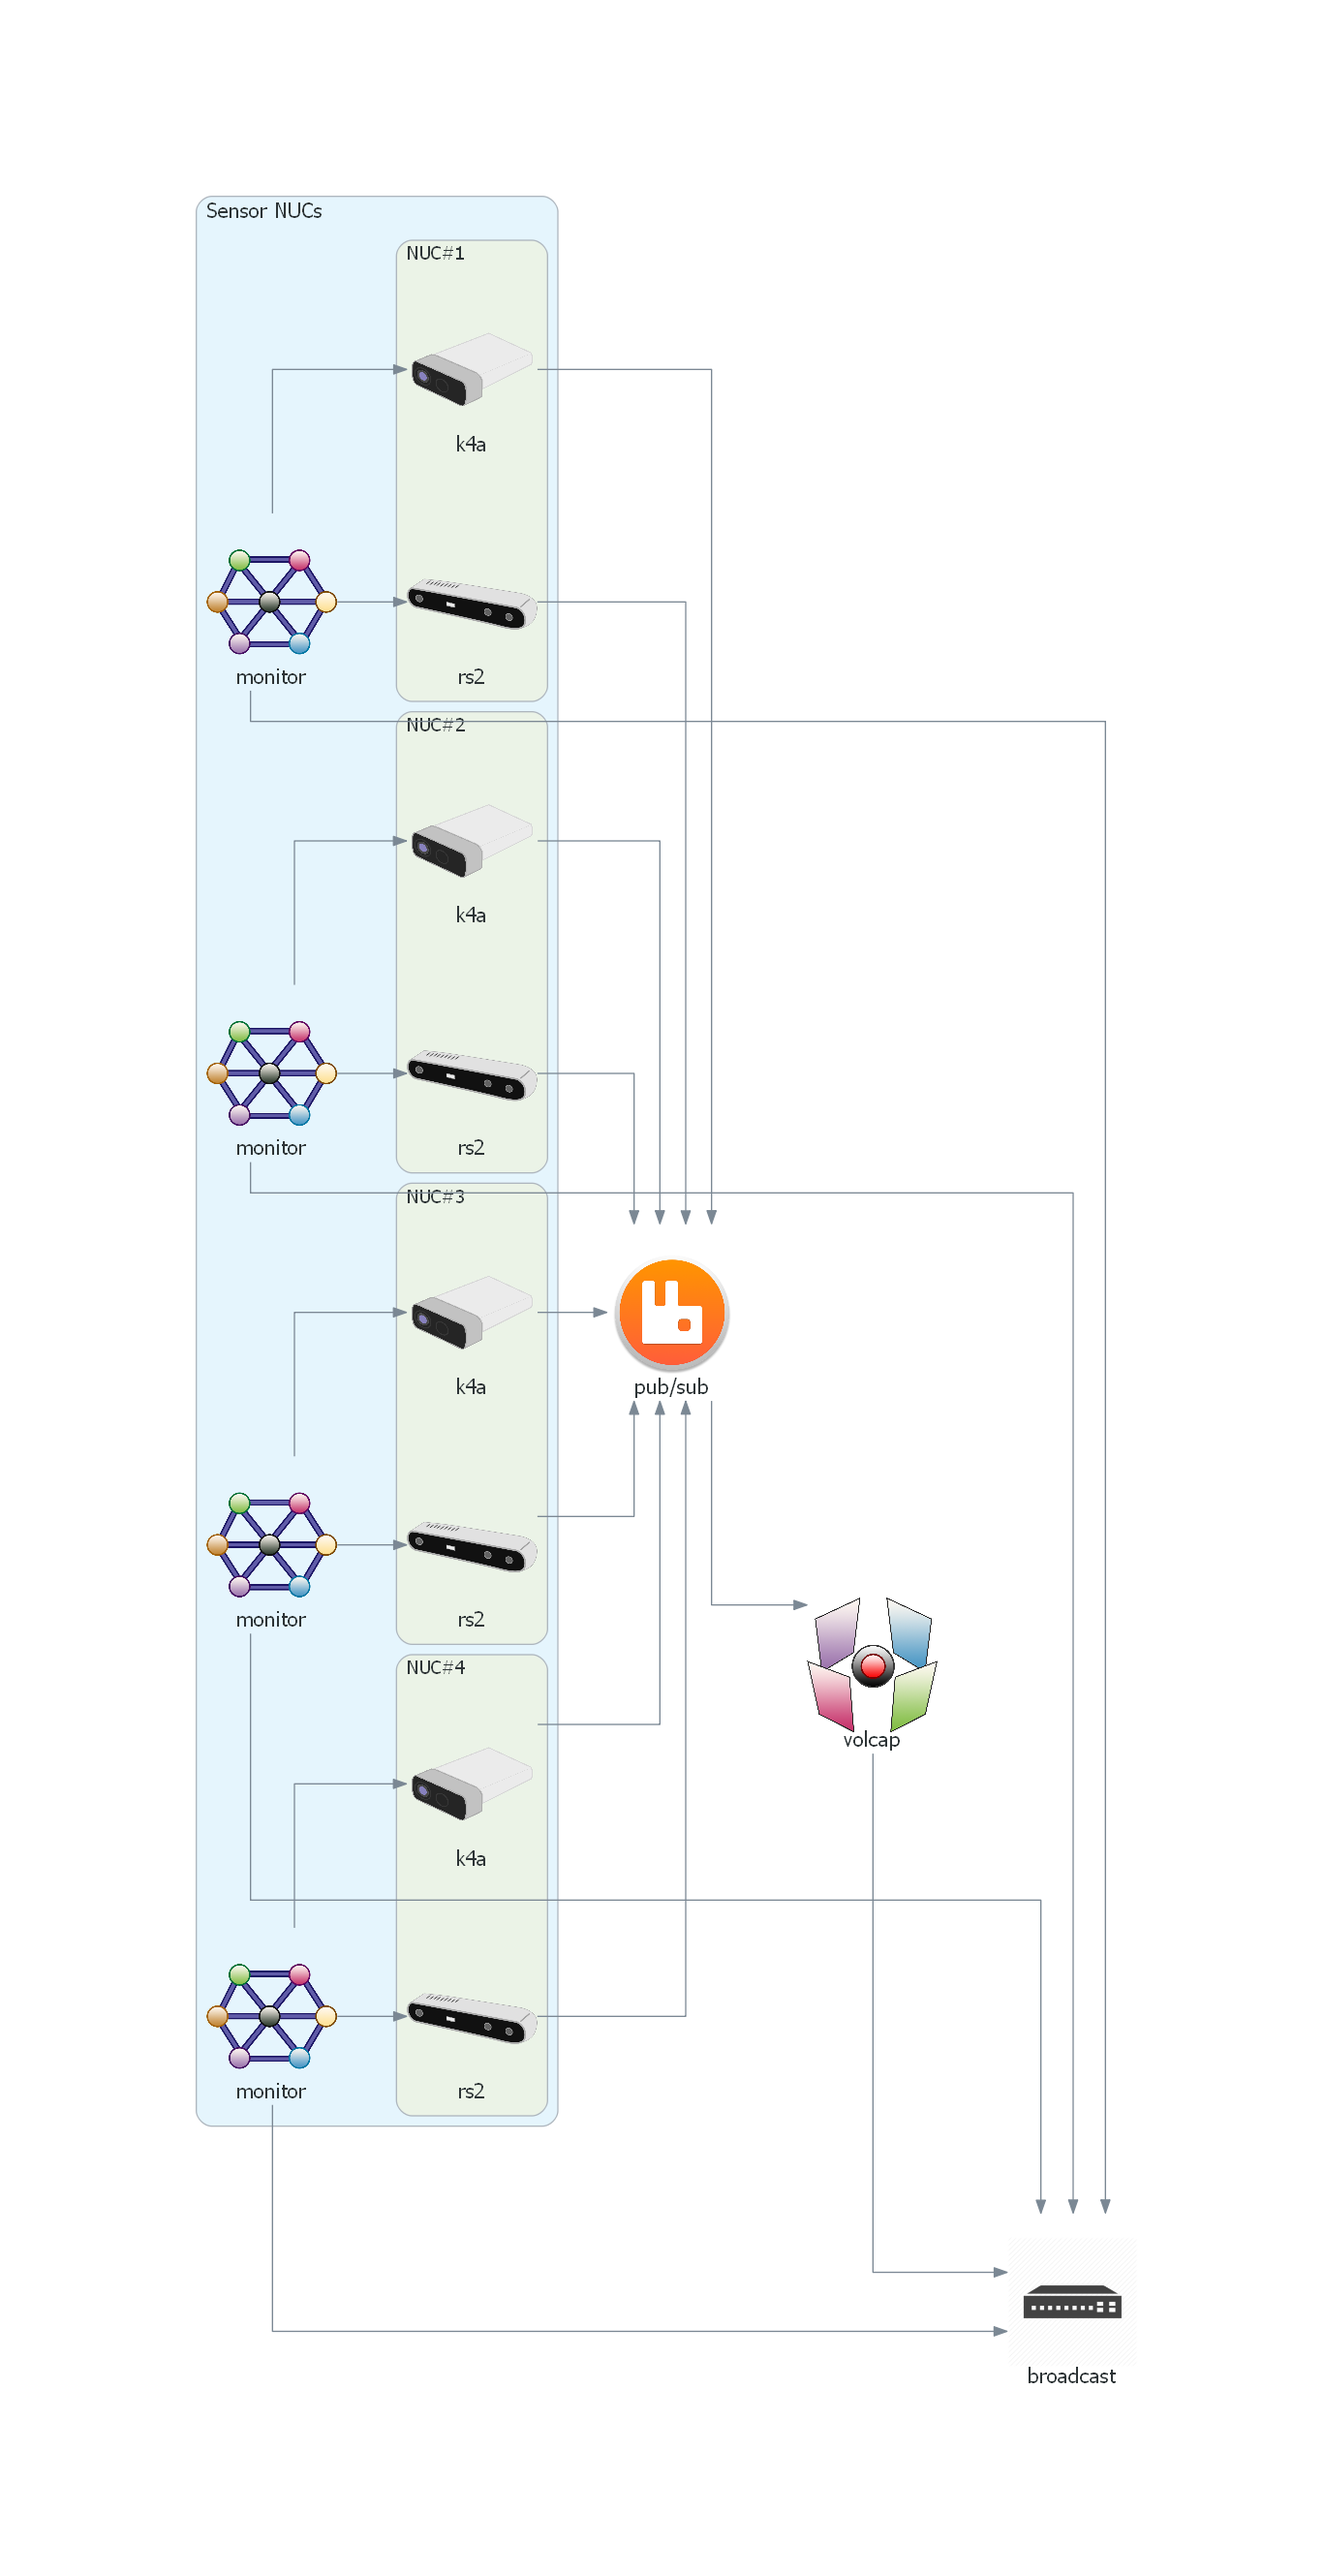
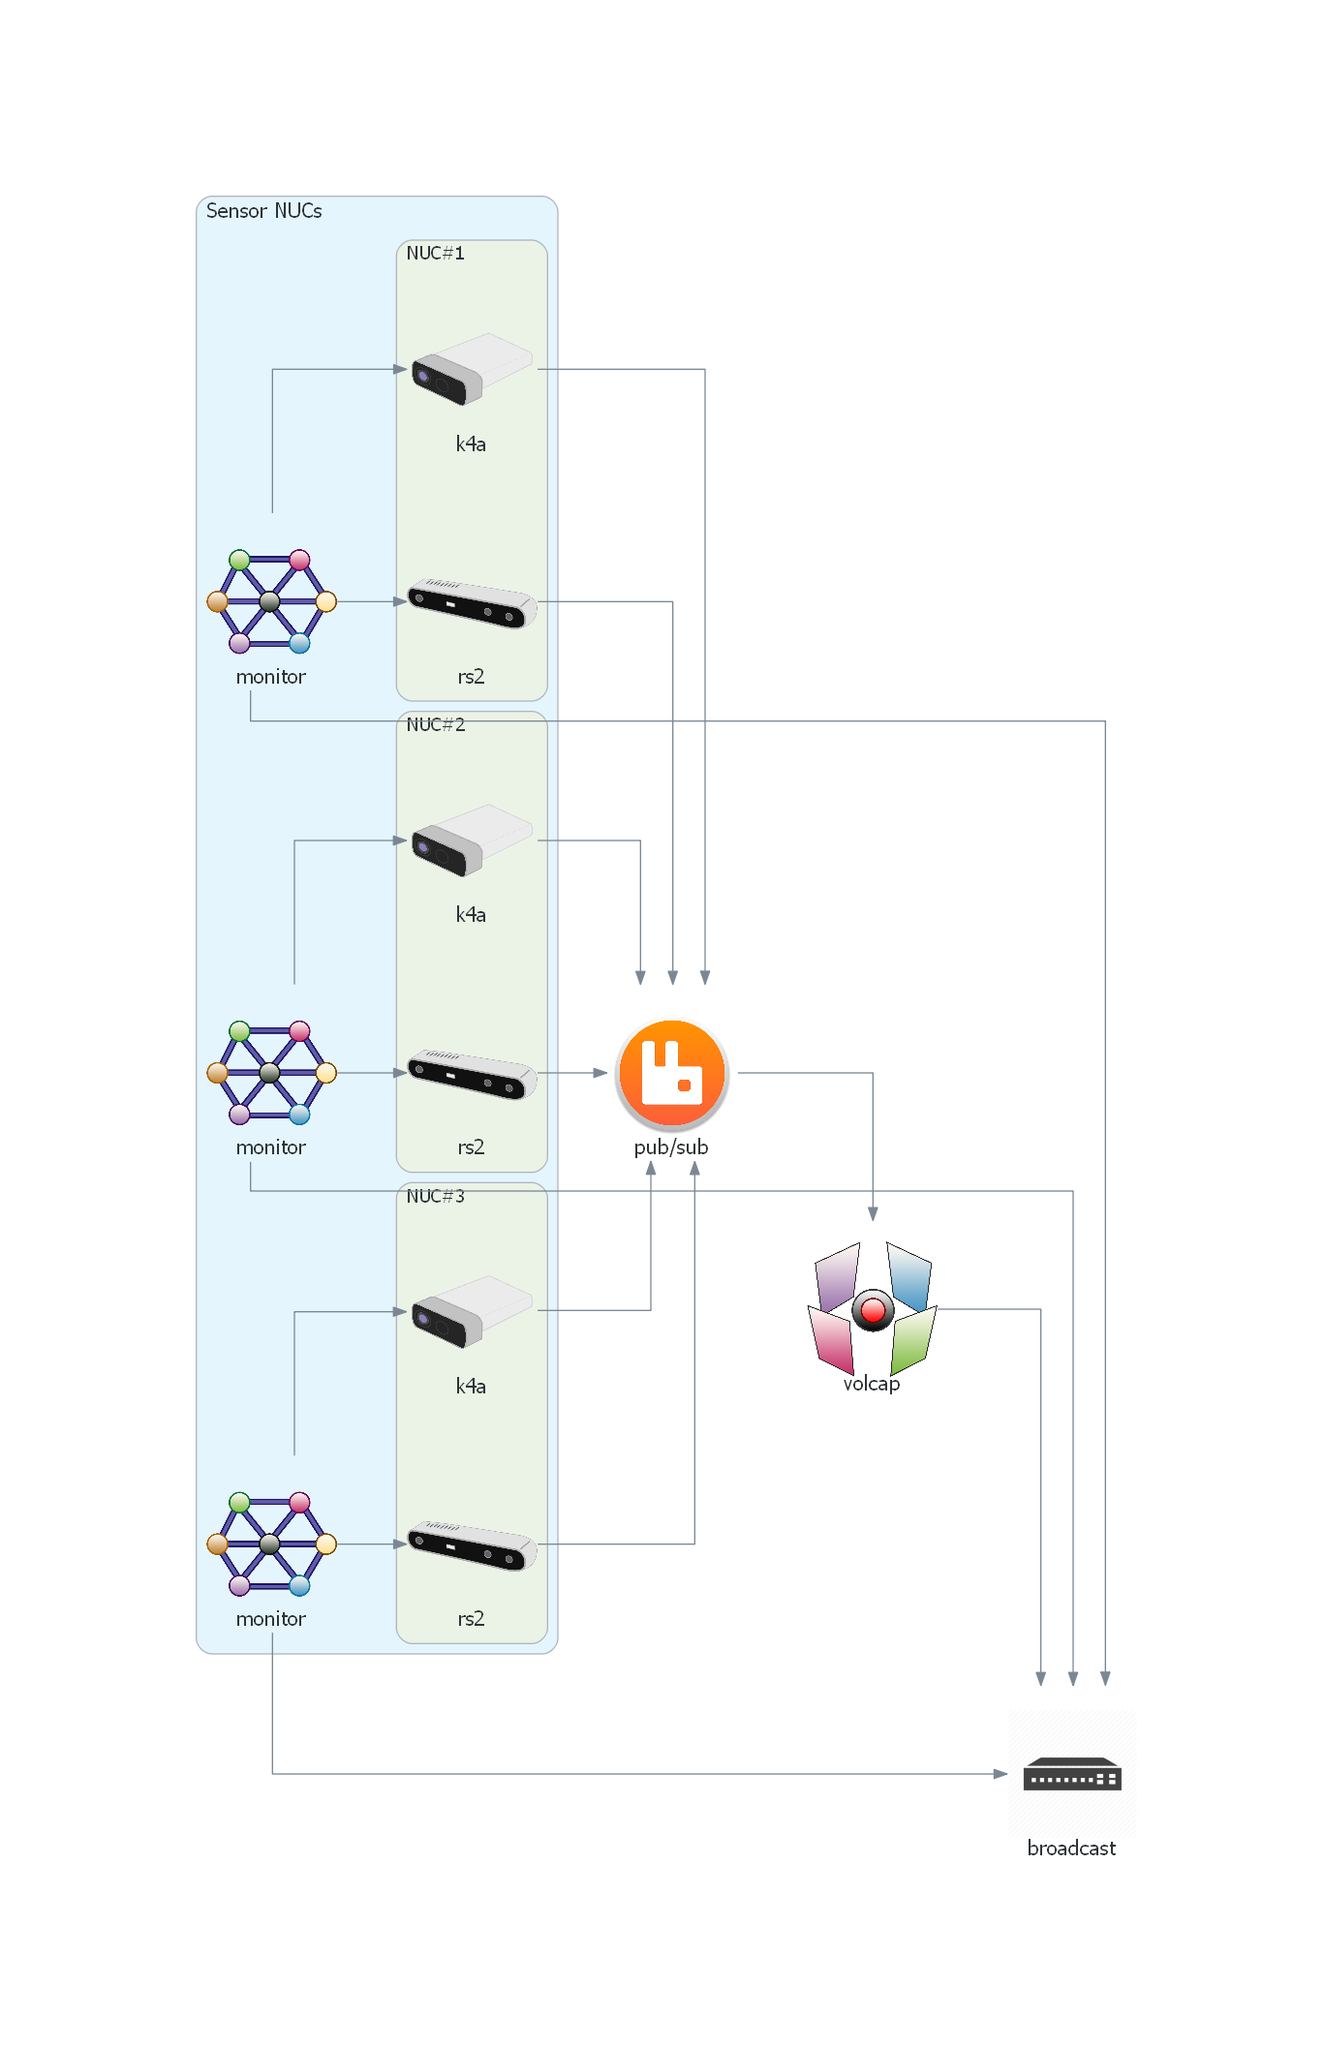
smaller sensor connection fig

diff --git a/assets/scripts/create_diagrams.py b/assets/scripts/create_diagrams.py
@@ -170,7 +170,7 @@ if __name__ == "__main__":
             svc1 = Monitor()
             svc2 = Monitor()
             svc3 = Monitor()
-            svc4 = Monitor()
+            # svc4 = Monitor()
             with Cluster("NUC#1", direction="LR", graph_attr={
                 "shape": "box",
                 "style": "rounded",
@@ -201,33 +201,33 @@ if __name__ == "__main__":
             }):    
                 k4a3 = K4A()
                 rs3 = RS2()
-            with Cluster("NUC#4", direction="LR", graph_attr={
-                "shape": "box",
-                "style": "rounded",
-                "labeljust": "l",
-                "pencolor": "#AEB6BE",
-                "fontname": "Lucida-Sans",
-                "fontsize": "14",
-            }):
-                k4a4 = K4A()
-                rs4 = RS2()                        
+            # with Cluster("NUC#4", direction="LR", graph_attr={
+            #     "shape": "box",
+            #     "style": "rounded",
+            #     "labeljust": "l",
+            #     "pencolor": "#AEB6BE",
+            #     "fontname": "Lucida-Sans",
+            #     "fontsize": "14",
+            # }):
+            #     k4a4 = K4A()
+            #     rs4 = RS2()                        
         k4a_sensors = [
             k4a1,
             k4a2,
             k4a3,
-            k4a4
+            # k4a4
         ]
         rs2_sensors = [
             rs1,
             rs2,
             rs3,
-            rs4
+            # rs4
         ]
         services = [
             svc1,
             svc2,
             svc3,
-            svc4
+            # svc4
         ]
         switch = Switch("broadcast")
         message_queue = RabbitMQ()
@@ -239,11 +239,11 @@ if __name__ == "__main__":
         svc1 >> k4a1
         svc2 >> k4a2
         svc3 >> k4a3
-        svc4 >> k4a4
+        # svc4 >> k4a4
         svc1 >> rs1
         svc2 >> rs2
         svc3 >> rs3
-        svc4 >> rs4
+        # svc4 >> rs4
 
     with Diagram(
         # name="Installation", 
